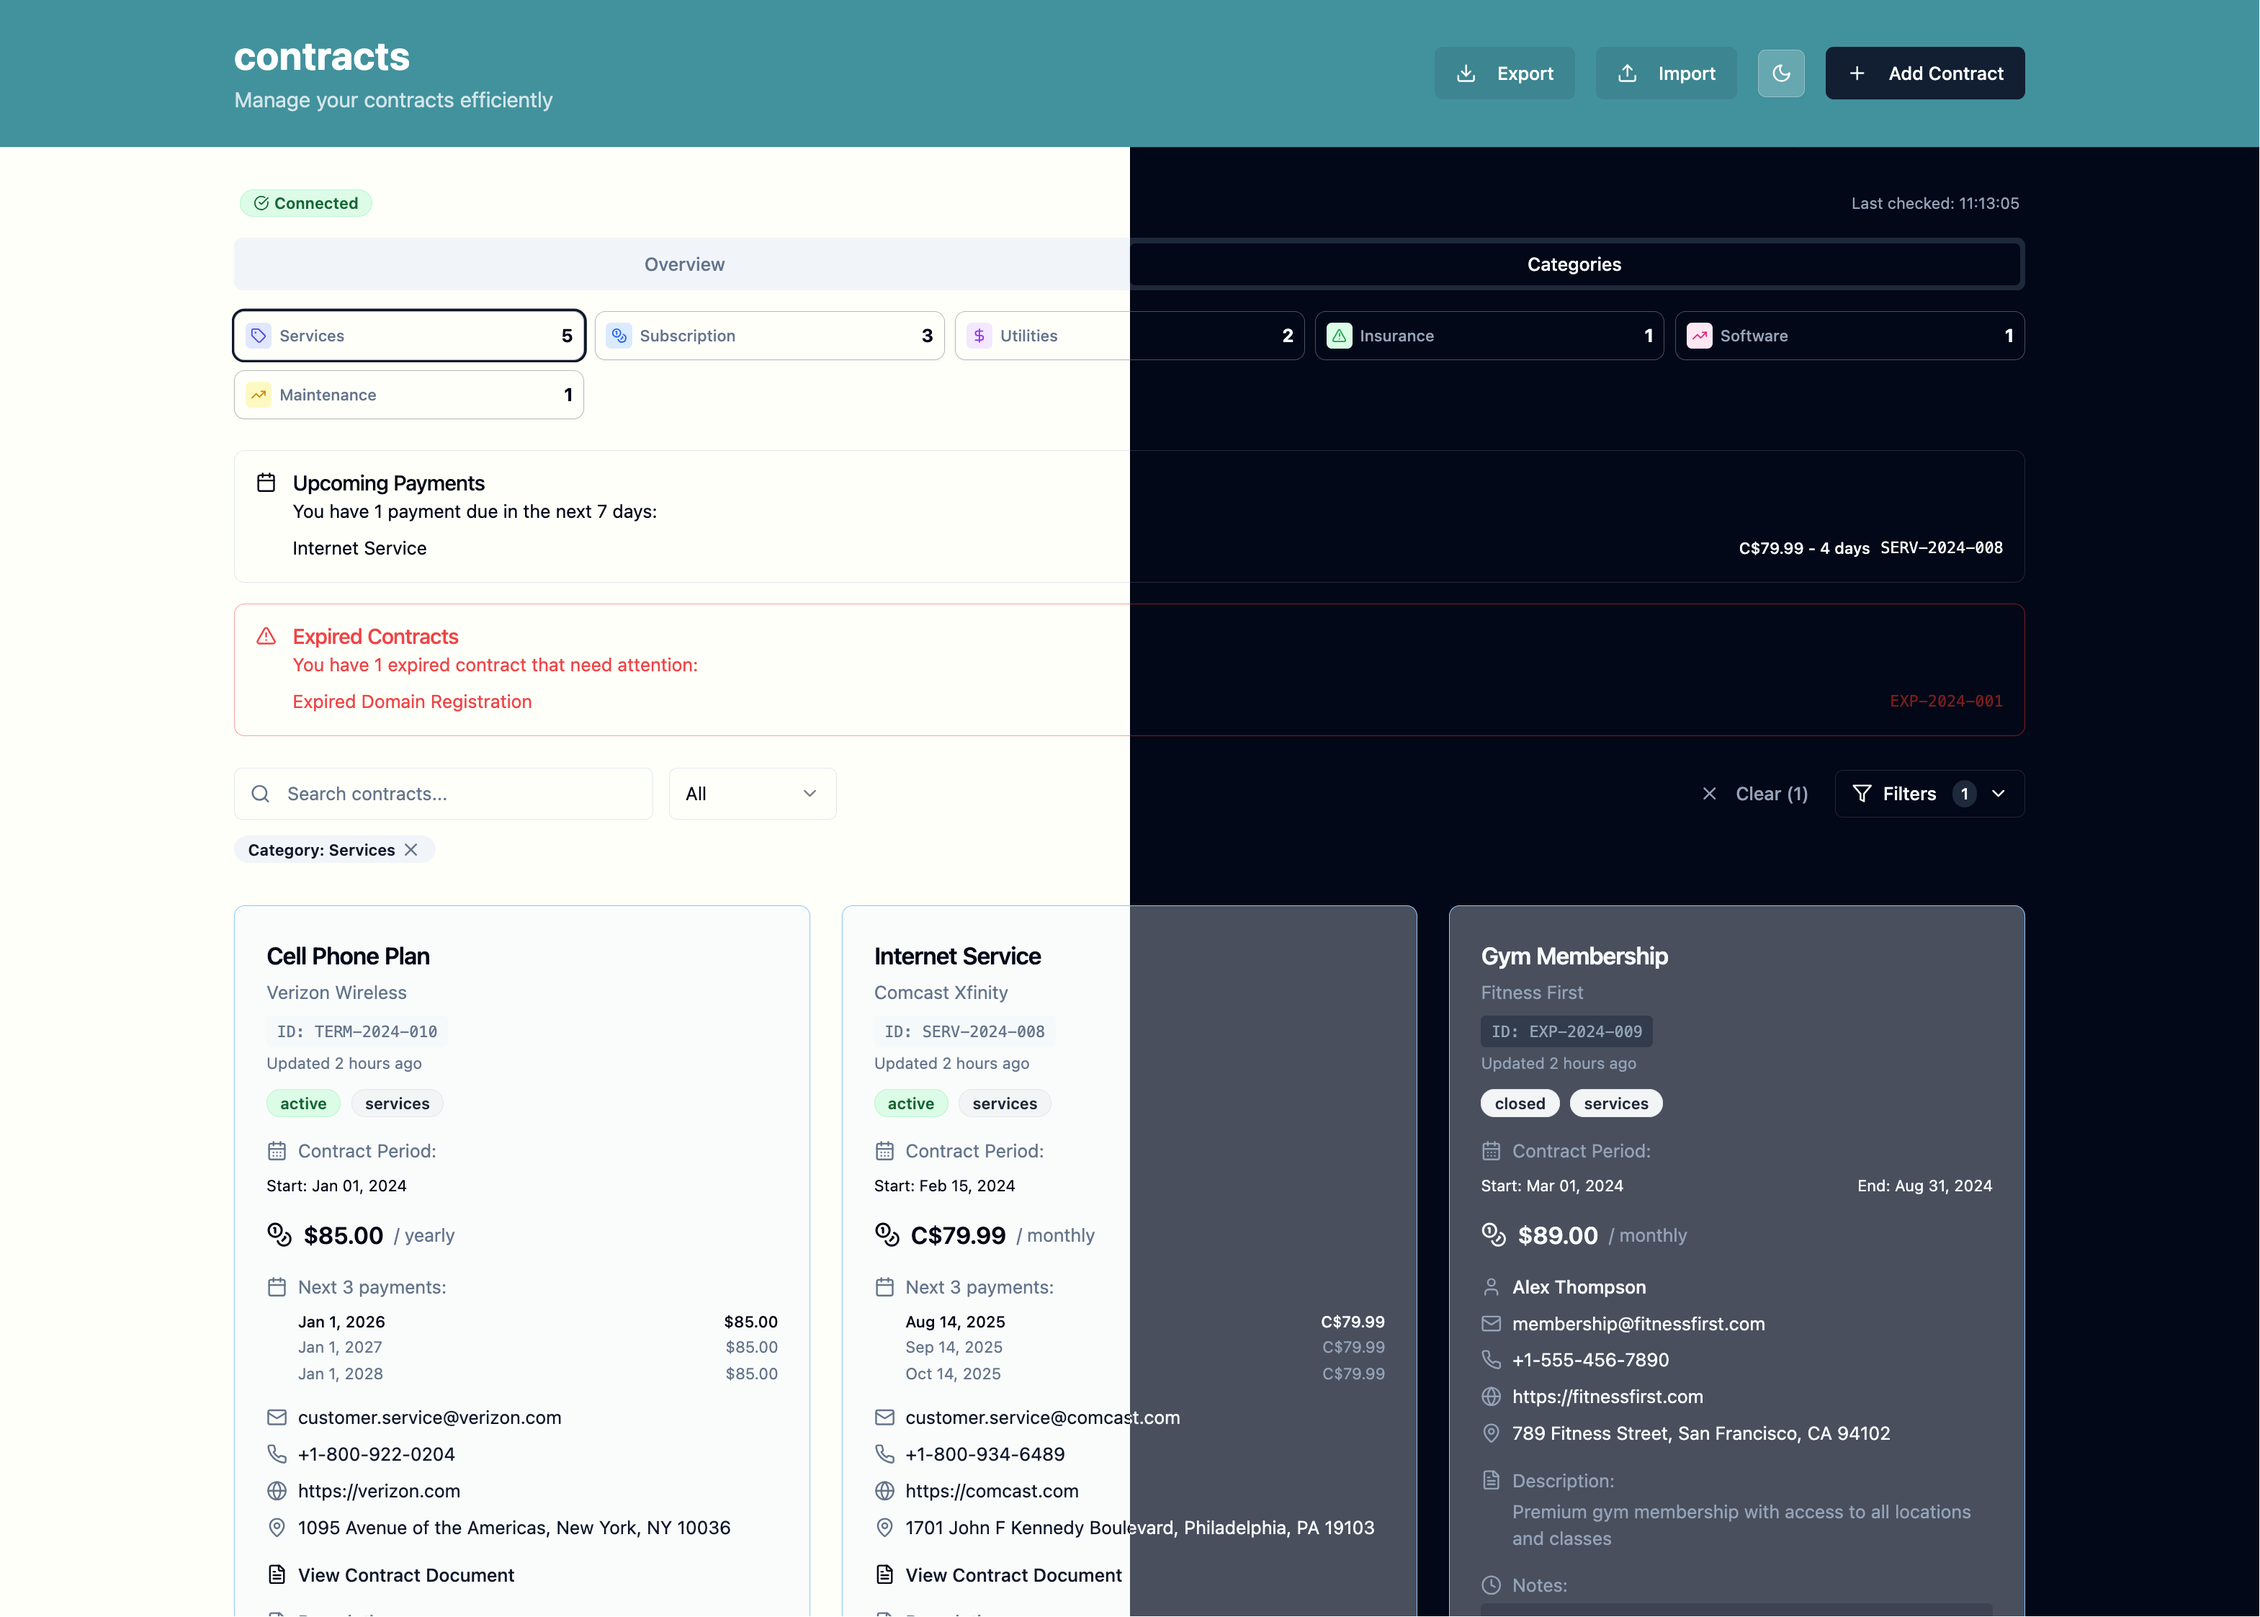
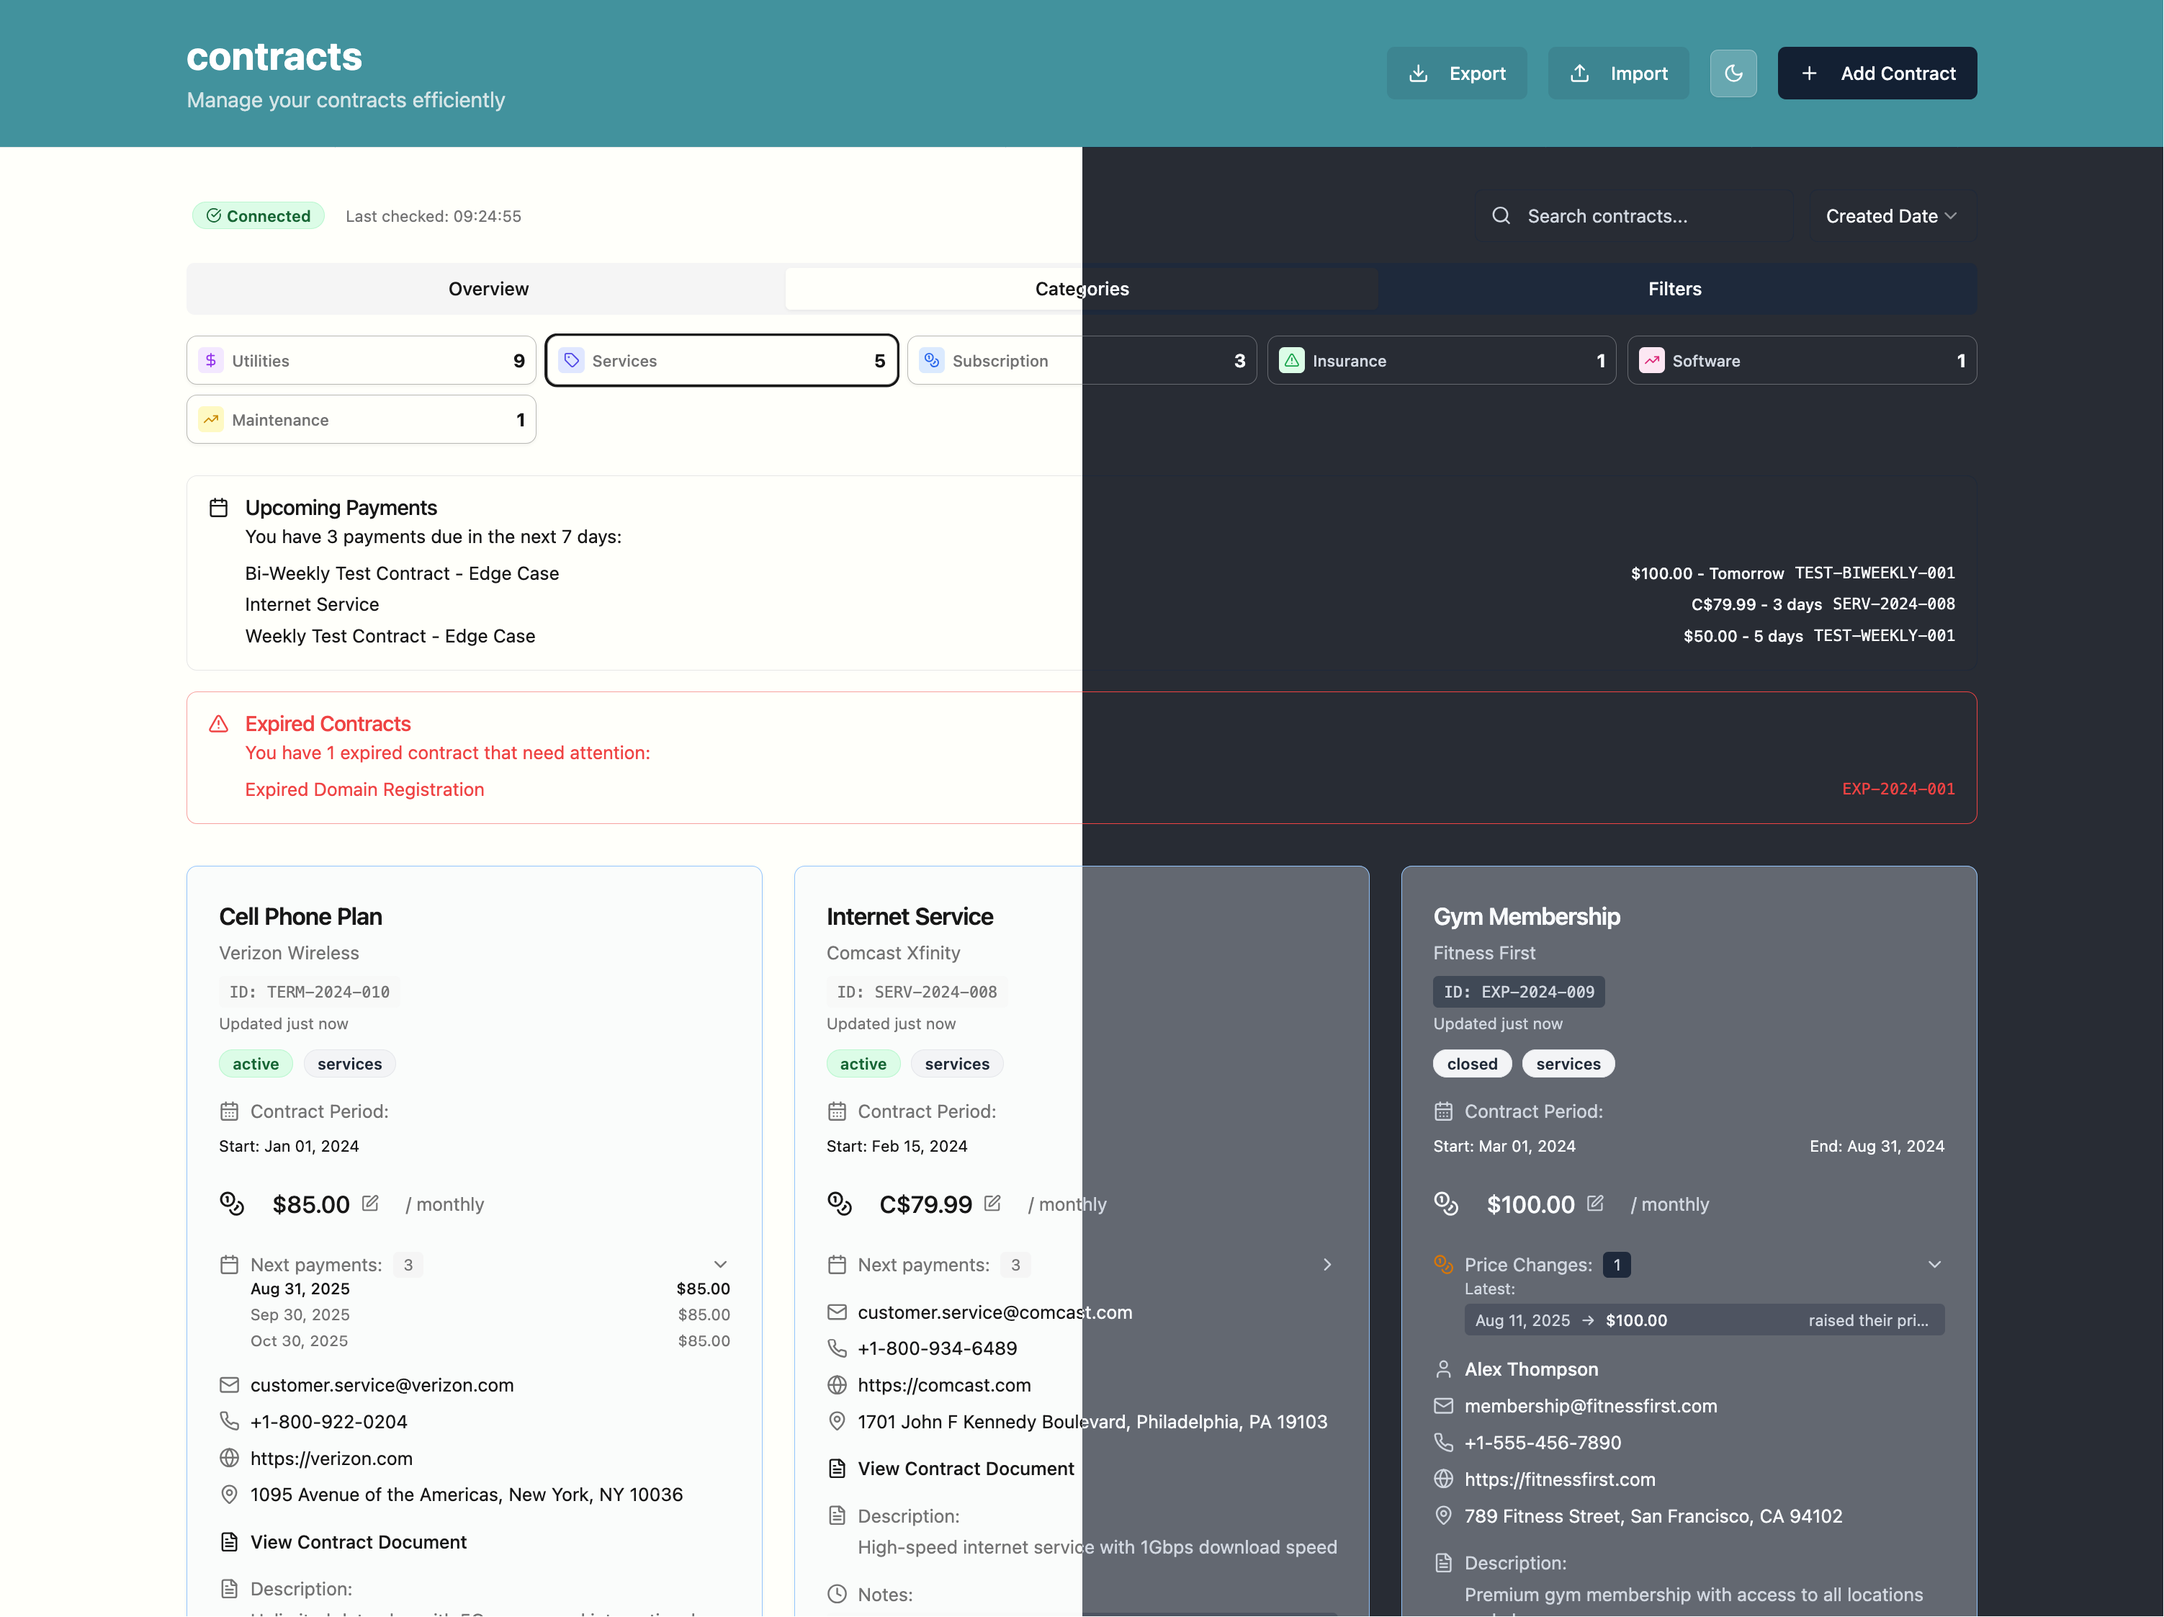
feat: move sort by field to header for better accessibility
- Relocate "Sort By" dropdown from filters tab to header area next to search bar
- Adjust filter grid from 6 to 5 columns with improved 20% width distribution
- Group search and sort functionality together for better UX organization
- Make sorting options always visible without needing to navigate to filters tab
- Clean up filters interface by removing redundant sort controls

diff --git a/client/src/components/ContractFilters.tsx b/client/src/components/ContractFilters.tsx
@@ -62,7 +62,7 @@ export const ContractFilters = ({ filters, onFiltersChange, availableTags = [] }
       {/* All Filter Options - Always Visible */}
       <div className="bg-muted/50 rounded-lg p-4 border w-full">
         <div className="w-full" style={{ whiteSpace: 'nowrap' }}>
-          <div className="inline-block w-[16.666%] pr-2">
+          <div className="inline-block w-[20%] pr-2">
             <Label htmlFor="status-filter" className="text-sm font-medium">Status</Label>
             <Select value={filters.status || 'all'} onValueChange={(value) => updateFilter('status', value === 'all' ? undefined : value)}>
               <SelectTrigger id="status-filter" className="w-full">
@@ -78,7 +78,7 @@ export const ContractFilters = ({ filters, onFiltersChange, availableTags = [] }
             </Select>
           </div>
 
-          <div className="inline-block w-[16.666%] pr-2">
+          <div className="inline-block w-[20%] pr-2">
             <Label htmlFor="category-filter" className="text-sm font-medium">Category</Label>
             <Select value={filters.category || 'all'} onValueChange={(value) => updateFilter('category', value === 'all' ? undefined : value)}>
               <SelectTrigger id="category-filter" className="w-full">
@@ -95,7 +95,7 @@ export const ContractFilters = ({ filters, onFiltersChange, availableTags = [] }
             </Select>
           </div>
 
-          <div className="inline-block w-[16.666%] pr-2">
+          <div className="inline-block w-[20%] pr-2">
             <Label htmlFor="frequency-filter" className="text-sm font-medium">Frequency</Label>
             <Select value={filters.frequency || 'all'} onValueChange={(value) => updateFilter('frequency', value === 'all' ? undefined : value)}>
               <SelectTrigger id="frequency-filter" className="w-full">
@@ -113,7 +113,7 @@ export const ContractFilters = ({ filters, onFiltersChange, availableTags = [] }
             </Select>
           </div>
 
-          <div className="inline-block w-[16.666%] pr-2">
+          <div className="inline-block w-[20%] pr-2">
             <Label htmlFor="needs-info-filter" className="text-sm font-medium">Info Status</Label>
             <Select value={filters.needsMoreInfo === true ? 'yes' : filters.needsMoreInfo === false ? 'no' : 'all'} onValueChange={(value) => updateFilter('needsMoreInfo', value === 'all' ? undefined : value === 'yes')}>
               <SelectTrigger id="needs-info-filter" className="w-full">
@@ -127,7 +127,7 @@ export const ContractFilters = ({ filters, onFiltersChange, availableTags = [] }
             </Select>
           </div>
 
-          <div className="inline-block w-[16.666%] pr-2">
+          <div className="inline-block w-[20%] pr-2">
             <Label htmlFor="tags-filter" className="text-sm font-medium">Tags</Label>
             <Select 
               value={filters.tags?.length ? filters.tags[0] : 'all'} 
@@ -153,21 +153,7 @@ export const ContractFilters = ({ filters, onFiltersChange, availableTags = [] }
             </Select>
           </div>
 
-          <div className="inline-block w-[16.666%] pr-2">
-            <Label htmlFor="sort-filter" className="text-sm font-medium">Sort By</Label>
-            <Select value={filters.sortBy || 'name'} onValueChange={(value) => updateFilter('sortBy', value)}>
-              <SelectTrigger id="sort-filter" className="w-full">
-                <SelectValue />
-              </SelectTrigger>
-              <SelectContent>
-                <SelectItem value="name">Name</SelectItem>
-                <SelectItem value="amount">Amount</SelectItem>
-                <SelectItem value="nextPaymentDate">Next Payment</SelectItem>
-                <SelectItem value="createdAt">Created Date</SelectItem>
-                <SelectItem value="updatedAt">Last Updated</SelectItem>
-              </SelectContent>
-            </Select>
-          </div>
+
         </div>
       </div>
 

diff --git a/client/src/pages/Index.tsx b/client/src/pages/Index.tsx
@@ -13,6 +13,7 @@ import { MigrationNotification } from '@/components/MigrationNotification';
 import { ThemeToggle } from '@/components/ThemeToggle';
 import { Button } from '@/components/ui/button';
 import { Input } from '@/components/ui/input';
+import { Select, SelectContent, SelectItem, SelectTrigger, SelectValue } from '@/components/ui/select';
 import { Dialog, DialogContent, DialogHeader, DialogTitle, DialogTrigger } from '@/components/ui/dialog';
 import { AlertDialog, AlertDialogAction, AlertDialogCancel, AlertDialogContent, AlertDialogDescription, AlertDialogFooter, AlertDialogHeader, AlertDialogTitle } from '@/components/ui/alert-dialog';
 import { Badge } from '@/components/ui/badge';
@@ -384,19 +385,34 @@ const Index = () => {
       </div>
 
       <div className="container mx-auto px-4 py-8">
-        {/* Connection Status with Search */}
+        {/* Connection Status with Search and Sort */}
         <div className="flex items-center justify-between mb-4">
           <ConnectionStatus onStatusChange={setApiConnected} />
           
-          {/* Search Field */}
-          <div className="relative max-w-md">
-            <Search className="absolute left-3 top-1/2 transform -translate-y-1/2 h-4 w-4 text-muted-foreground" />
-            <Input
-              placeholder="Search contracts..."
-              value={filters.searchTerm || ''}
-              onChange={(e) => setFilters(prev => ({ ...prev, searchTerm: e.target.value }))}
-              className="pl-10"
-            />
+          {/* Search and Sort Fields */}
+          <div className="flex items-center gap-3">
+            <div className="relative max-w-md">
+              <Search className="absolute left-3 top-1/2 transform -translate-y-1/2 h-4 w-4 text-muted-foreground" />
+              <Input
+                placeholder="Search contracts..."
+                value={filters.searchTerm || ''}
+                onChange={(e) => setFilters(prev => ({ ...prev, searchTerm: e.target.value }))}
+                className="pl-10"
+              />
+            </div>
+            
+            <Select value={filters.sortBy || 'name'} onValueChange={(value) => setFilters(prev => ({ ...prev, sortBy: value as any }))}>
+              <SelectTrigger className="w-32">
+                <SelectValue placeholder="Sort by" />
+              </SelectTrigger>
+              <SelectContent>
+                <SelectItem value="name">Name</SelectItem>
+                <SelectItem value="amount">Amount</SelectItem>
+                <SelectItem value="nextPaymentDate">Next Payment</SelectItem>
+                <SelectItem value="createdAt">Created Date</SelectItem>
+                <SelectItem value="updatedAt">Last Updated</SelectItem>
+              </SelectContent>
+            </Select>
           </div>
         </div>
 
